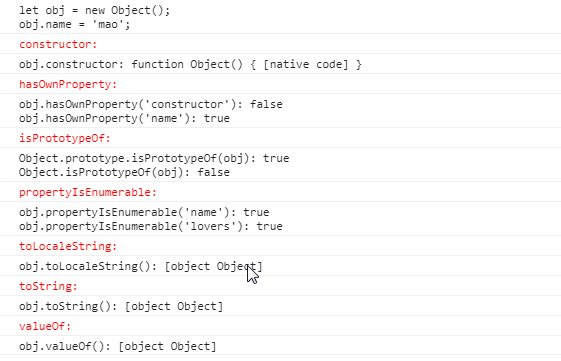
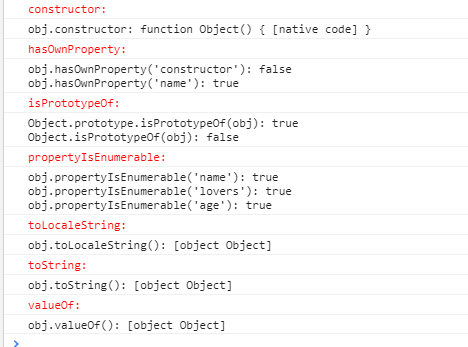
2019-03-31

diff --git a/JavaScript常用语法总结/3js的数据类型总结.md b/JavaScript常用语法总结/3js的数据类型总结.md
@@ -148,6 +148,7 @@ console.log(typeof function: ${typeof function(){}});`
 let obj = new Object();
 obj.name = 'mao';
 obj.lovers = ['sherlock','messi','zht'];
+obj.age = 23;
 console.log(obj.__proto__);
 console.log(`let obj = new Object();\nobj.name = 'mao';`)
 console.log('%cconstructor:','color:red');
@@ -157,7 +158,7 @@ console.log(`obj.hasOwnProperty('constructor'): ${obj.hasOwnProperty('constructo
 console.log('%cisPrototypeOf:','color:red');
 console.log(`Object.prototype.isPrototypeOf(obj): ${Object.prototype.isPrototypeOf(obj)}\nObject.isPrototypeOf(obj): ${Object.isPrototypeOf(obj)}`);
 console.log('%cpropertyIsEnumerable:','color:red');
-console.log(`obj.propertyIsEnumerable('name'): ${obj.propertyIsEnumerable('name')}\nobj.propertyIsEnumerable('lovers'): ${obj.propertyIsEnumerable('lovers')}`);
+console.log(`obj.propertyIsEnumerable('name'): ${obj.propertyIsEnumerable('name')}\nobj.propertyIsEnumerable('lovers'): ${obj.propertyIsEnumerable('lovers')}\nobj.propertyIsEnumerable('age'): ${obj.propertyIsEnumerable('age')}`);
 console.log('%ctoLocaleString:','color:red');
 console.log(`obj.toLocaleString(): ${obj.toLocaleString()}`);
 console.log('%ctoString:','color:red');
